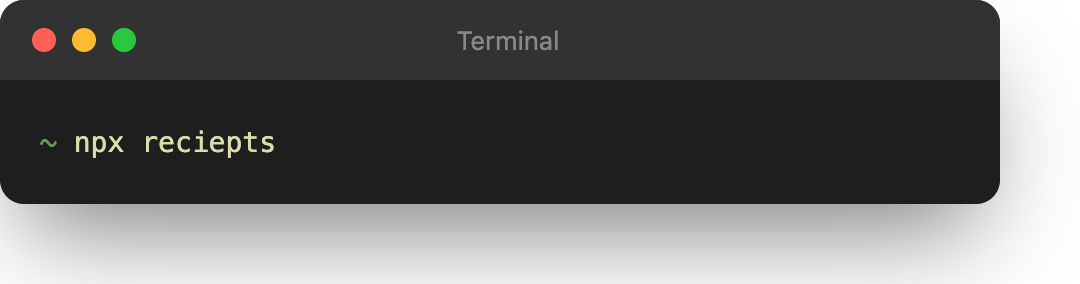
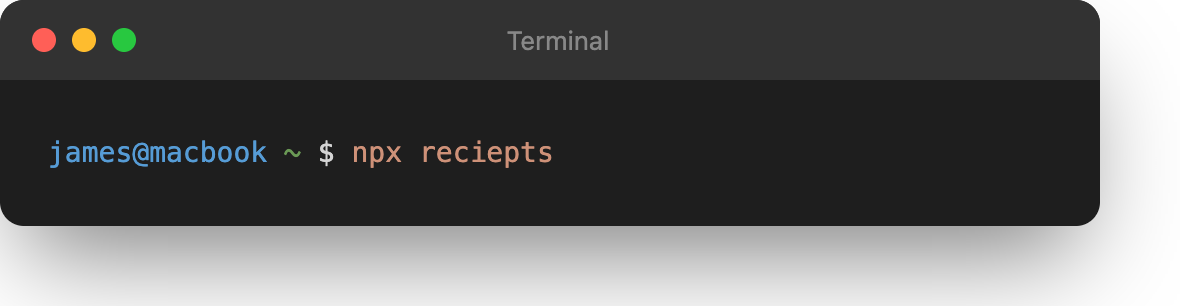
v0.6.5: Ultra spoon-fed Quick Start guide
- Step by step with screenshots
- Fake paths (james@macbook, ~/Desktop/thesis)
- FAQ section
- Clear folder structure explanation
- 5 minute Quick Start

diff --git a/bin/install.js b/bin/install.js
@@ -4,7 +4,7 @@ const fs = require('fs');
 const path = require('path');
 const os = require('os');
 
-const VERSION = '0.6.4';
+const VERSION = '0.6.5';
 const PACKAGE_NAME = 'reciepts';
 
 // Colors

diff --git a/README.md b/README.md
@@ -28,87 +28,117 @@ I built reciepts to fix that. One command. Parallel agents. Verbatim quotes. Don
 
 ---
 
-## Getting Started
+## Quick Start (5 minutes)
 
-### Step 1: Install Claude Code
+### 1. Install Claude Code
 
-reciepts runs inside [Claude Code](https://docs.anthropic.com/en/docs/claude-code), Anthropic's AI coding tool.
+reciepts runs inside Claude Code. If you do not have it:
 
 ```bash
 npm install -g @anthropic-ai/claude-code
 ```
 
-### Step 2: Install reciepts
+No npm? [Get Node.js first](https://nodejs.org/).
 
-Run this in your terminal:
+### 2. Install reciepts
 
-<p align="center">
-<img src="assets/screenshots/step1.png" alt="Step 1: npx reciepts" width="450">
-</p>
-
-This installs the `/reciepts` command into Claude Code. You only need to do this once.
-
-### Step 3: Set up your paper folder
-
-Put your manuscript and source PDFs in a folder like this:
+Open Terminal. Run this command:
 
 <p align="center">
-<img src="assets/screenshots/step2.png" alt="Step 2: Folder structure" width="350">
+<img src="assets/screenshots/step1.png" alt="Run npx reciepts" width="500">
 </p>
 
-- Your manuscript goes in the root
-- Source PDFs go in a `sources/` subfolder
-- Name sources to match your references (ref_01.pdf, ref_02.pdf, etc.)
+```bash
+npx reciepts
+```
 
-### Step 4: Run reciepts
+You will see a receipt banner. That means it worked. This installs the `/reciepts` command into Claude Code.
 
-Open Claude Code, navigate to your paper folder, and run:
+**You only do this once.**
+
+### 3. Set up your paper folder
+
+Create a folder with your manuscript and source PDFs:
 
 <p align="center">
-<img src="assets/screenshots/step3.png" alt="Step 3: Run /reciepts" width="500">
+<img src="assets/screenshots/step2.png" alt="Folder structure" width="380">
 </p>
 
-reciepts spawns one AI agent per citation, in parallel. 50 citations = 50 agents = 2 minutes.
+```
+thesis/
+├── my_dissertation.pdf    ← your paper (any name works)
+└── sources/               ← create this folder
+    ├── smith_2020.pdf     ← the PDFs you cited
+    ├── jones_2021.pdf
+    └── chen_2019.pdf
+```
 
-Each agent reads your claim, reads the source, compares them with verbatim quotes, and writes a verdict.
+**Important:**
+- Put your manuscript in the root folder
+- Create a `sources/` folder inside
+- Put all your cited PDFs in `sources/`
+- Name them however you want (reciepts will match them)
+
+### 4. Run reciepts
+
+Open Claude Code. Navigate to your paper folder. Type:
+
+<p align="center">
+<img src="assets/screenshots/step3.png" alt="Run /reciepts" width="500">
+</p>
+
+```
+/reciepts
+```
+
+That is it. reciepts will:
+1. Read your manuscript
+2. Find every citation
+3. Spawn one AI agent per citation (in parallel)
+4. Check each source for what it actually says
+5. Write a report to `RECIEPTS.md`
+
+50 citations = 50 agents = about 2 minutes.
 
 ---
 
-## The Problem
+## What You Get
 
-Your manuscript says:
-> "Smith et al. achieved **99% accuracy** [1]"
+A report showing every citation and whether it checks out:
 
-The source actually says:
-> "Our method achieves **73% accuracy**"
+```
+# Citation Verification Report
 
-This happens constantly:
-- You cited from memory (it has been six months)
-- You skimmed the abstract (who reads methods?)
-- An LLM "helped" you write it
-- You confused two papers with similar titles
+| Status  | Count |
+|---------|-------|
+| VALID   | 47    |
+| ADJUST  | 2     |
+| INVALID | 1     |
 
----
+## Issues Found
 
-## Verdicts
+### [23] Smith et al. (2020)
 
-| Status | Meaning |
-|--------|---------|
-| **VALID** | Source supports your claim |
-| **ADJUST** | Minor correction needed (numbers, wording) |
-| **INVALID** | Source contradicts or does not support claim |
+**Your claim:** "achieved 99% accuracy on all benchmarks"
+**Source says:** "achieves 73% accuracy on the standard benchmark"
+**Fix:** Change "99%" to "73%", remove "all benchmarks"
+```
+
+| Status | What it means |
+|--------|---------------|
+| **VALID** | Your citation is accurate |
+| **ADJUST** | Small fix needed (wrong number, slightly off wording) |
+| **INVALID** | Source does not support your claim at all |
 
 ---
 
 ## Cost
 
-Cheaper than retraction. More thorough than memory.
-
-| Paper Size | Refs | Haiku 3.5 | Sonnet 4 | Opus 4.5 |
-|------------|------|-----------|----------|----------|
-| Short (3 pages) | 10 | ~$0.50 | ~$2 | ~$9 |
-| Medium (5 pages) | 25 | ~$1.30 | ~$5 | ~$24 |
-| Full (10 pages) | 50 | ~$3 | ~$11 | ~$56 |
+| Paper Size | Citations | Haiku 3.5 | Sonnet 4 | Opus 4.5 |
+|------------|-----------|-----------|----------|----------|
+| Short | 10 | ~$0.50 | ~$2 | ~$9 |
+| Medium | 25 | ~$1.30 | ~$5 | ~$24 |
+| Full | 50 | ~$3 | ~$11 | ~$56 |
 
 Use Haiku for drafts. Opus for final submission. Your career is worth $56.
 
@@ -117,10 +147,26 @@ Use Haiku for drafts. Opus for final submission. Your career is worth $56.
 ## Who This Is For
 
 - PhD students submitting dissertations
-- Researchers publishing in peer reviewed journals
+- Researchers publishing papers
 - Graduate students writing theses
-- Authors using AI writing assistants
-- Reviewers who want to spot check papers
+- Anyone using AI writing assistants
+- Reviewers who want to spot check
+
+---
+
+## FAQ
+
+**Do I need an Anthropic API key?**
+Yes. Claude Code requires one. [Get it here](https://console.anthropic.com/).
+
+**What file formats work?**
+PDF, Markdown, and Word docs.
+
+**Can I exclude certain citations?**
+Yes. Create `excluded_refs.txt` and list the ones to skip.
+
+**What if a source PDF is missing?**
+reciepts will tell you which ones it could not find.
 
 ---
 
